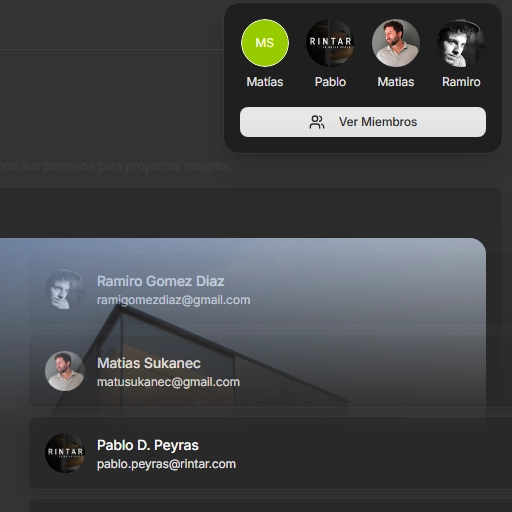
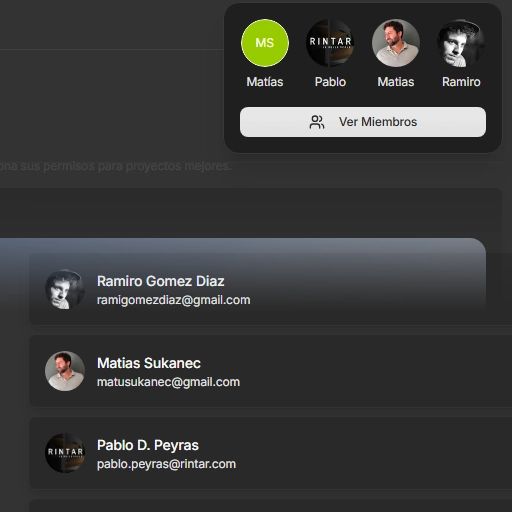
Add plan restrictions to project creation and member invitations
Introduces `PlanRestricted` component to limit project creation and member invitations based on the user's plan, and refactors `ActionBarMobile` to dynamically handle these restrictions.

Replit-Commit-Author: Agent
Replit-Commit-Session-Id: dabc522e-9cc7-4ef9-95ae-c665149c5888
Replit-Commit-Checkpoint-Type: intermediate_checkpoint
Replit-Commit-Event-Id: 8c731a6a-ecee-4056-89eb-dff5f11ccee3
Replit-Commit-Screenshot-Url: https://storage.googleapis.com/screenshot-production-us-central1/56b0c08a-c571-423d-82ae-1092bbb3423d/dabc522e-9cc7-4ef9-95ae-c665149c5888/y03Egdg

Changed region(s): [[0.0, 0.4375, 0.9688, 0.7812]]

diff --git a/src/layout/mobile/ActionBarMobile.tsx b/src/layout/mobile/ActionBarMobile.tsx
@@ -16,9 +16,6 @@ import { useMobile } from '@/hooks/use-mobile'
 import { Search, Filter, Home, Bell, Lock } from 'lucide-react'
 import { useLocation } from 'wouter'
 import { PlanRestricted } from '@/components/ui-custom/security/PlanRestricted'
-import { useCurrentUser } from '@/hooks/use-current-user'
-import { useProjectsCount } from '@/features/projects'
-
 export function ActionBarMobile() {
   const [, navigate] = useLocation()
   const { 
@@ -36,11 +33,6 @@ export function ActionBarMobile() {
   } = useActionBarMobile()
   const isMobile = useMobile()
   const searchInputRef = useRef<HTMLInputElement>(null)
-  
-  // Get projects count for plan restrictions (counts ALL projects, not just active)
-  const { data: userData } = useCurrentUser()
-  const organizationId = userData?.organization?.id
-  const { data: projectsCount = 0 } = useProjectsCount(organizationId || undefined)
   
   // Focus search input when popover opens - always run this hook
   useEffect(() => {
@@ -219,24 +211,35 @@ export function ActionBarMobile() {
 
           {/* Slot 3: Create (Central, only if exists) */}
           {actions.create && (
-            <PlanRestricted 
-              feature="max_projects" 
-              current={projectsCount}
-              functionName="Crear Proyecto"
-              useUpgradeModal={true}
-              modalImage="/features/ft-projects-512.webp"
-              modalTitle="Alcanzaste el límite de proyectos"
-              modalDescription="Has llegado al máximo de proyectos permitidos en tu plan actual. Actualiza a un plan superior para crear proyectos ilimitados y gestionar tu negocio sin restricciones."
-            >
+            actions.create.planRestriction ? (
+              <PlanRestricted 
+                feature={actions.create.planRestriction.feature} 
+                current={actions.create.planRestriction.current}
+                functionName={actions.create.label}
+                useUpgradeModal={true}
+                modalImage={actions.create.planRestriction.modalImage}
+                modalTitle={actions.create.planRestriction.modalTitle}
+                modalDescription={actions.create.planRestriction.modalDescription}
+              >
+                <button
+                  onClick={actions.create.onClick}
+                  className="flex items-center justify-center w-14 h-14 rounded-full shadow-lg text-white transition-colors"
+                  style={{ backgroundColor: 'var(--accent)' }}
+                  data-testid="button-create-mobile"
+                >
+                  {React.createElement(actions.create.icon, { className: "h-6 w-6" })}
+                </button>
+              </PlanRestricted>
+            ) : (
               <button
                 onClick={actions.create.onClick}
                 className="flex items-center justify-center w-14 h-14 rounded-full shadow-lg text-white transition-colors"
                 style={{ backgroundColor: 'var(--accent)' }}
-                data-testid="button-create-project-mobile"
+                data-testid="button-create-mobile"
               >
                 {React.createElement(actions.create.icon, { className: "h-6 w-6" })}
               </button>
-            </PlanRestricted>
+            )
           )}
 
           {/* Slot 4: Filter */}

diff --git a/src/pages/settings/Members.tsx b/src/pages/settings/Members.tsx
@@ -1,4 +1,4 @@
-import { useState } from "react";
+import { useState, useEffect } from "react";
 import { useQuery, useMutation } from "@tanstack/react-query";
 import { format } from "date-fns";
 import { es } from "date-fns/locale";
@@ -7,7 +7,10 @@ import {
   UserCheck, 
   Clock, 
   MoreHorizontal,
-  UserPlus
+  UserPlus,
+  Search,
+  Filter,
+  Bell
 } from "lucide-react";
 
 import { Layout } from "@/layout/desktop/Layout";
@@ -32,6 +35,7 @@ import { useGlobalModalStore } from "@/components/modal/form/useGlobalModalStore
 import { useMobile } from "@/hooks/use-mobile";
 import { PlanRestricted } from "@/components/ui-custom/security/PlanRestricted";
 import { useOrganizationMembers } from "@/features/organization";
+import { useActionBarMobile } from "@/layout/mobile/ActionBarMobileContext";
 
 function getInitials(name: string): string {
   return name
@@ -62,6 +66,7 @@ export default function Members() {
   const { openModal } = useGlobalModalStore();
 
   const isMobile = useMobile();
+  const { setActions, setShowActionBar, clearActions } = useActionBarMobile();
 
   const organizationId = userData?.organization?.id;
   const { data: organizationMembers = [] } = useOrganizationMembers(organizationId);
@@ -149,6 +154,53 @@ export default function Members() {
 
   // Mock guests data (empty for now)
   const guests: any[] = [];
+
+  // Configure mobile action bar
+  useEffect(() => {
+    if (isMobile) {
+      setActions({
+        search: {
+          id: 'search',
+          icon: Search,
+          label: 'Buscar',
+          onClick: () => {},
+        },
+        create: {
+          id: 'create',
+          icon: UserPlus,
+          label: 'Invitar Miembro',
+          onClick: () => openModal('member'),
+          variant: 'primary',
+          planRestriction: {
+            feature: 'max_members',
+            current: organizationMembers.length,
+            modalImage: '/features/ft-members-512.webp',
+            modalTitle: 'Alcanzaste el límite de miembros',
+            modalDescription: 'Has llegado al máximo de miembros permitidos en tu plan actual. Actualiza a un plan superior para invitar más miembros a tu equipo y gestionar colaboraciones sin restricciones.',
+          },
+        },
+        filter: {
+          id: 'filter',
+          icon: Filter,
+          label: 'Filtros',
+          onClick: () => {},
+        },
+        notifications: {
+          id: 'notifications',
+          icon: Bell,
+          label: 'Notificaciones',
+          onClick: () => {},
+        },
+      });
+      setShowActionBar(true);
+    }
+
+    return () => {
+      if (isMobile) {
+        clearActions();
+      }
+    };
+  }, [isMobile, openModal, organizationMembers.length, setActions, setShowActionBar, clearActions]);
 
   // Revoke invitation mutation
   const revokeInviteMutation = useMutation({

diff --git a/src/pages/projects/ProjectActivesTab.tsx b/src/pages/projects/ProjectActivesTab.tsx
@@ -1,6 +1,6 @@
 import { useState, useEffect, useMemo, useCallback } from 'react'
 import { useCurrentUser } from '@/hooks/use-current-user'
-import { useProjects, ProjectItemCard } from '@/features/projects'
+import { useProjects, useProjectsCount, ProjectItemCard } from '@/features/projects'
 import { useUserOrganizationPreferences } from '@/features/organization'
 import { Folder, Plus, Bell, Search, Filter } from 'lucide-react'
 import { useMutation, useQueryClient } from '@tanstack/react-query'
@@ -21,6 +21,7 @@ export default function ProjectActives() {
   const { data: userData } = useCurrentUser()
   const organizationId = userData?.organization?.id
   const { data: projects = [], isLoading: projectsLoading } = useProjects(organizationId || undefined)
+  const { data: projectsCount = 0 } = useProjectsCount(organizationId || undefined)
   const { toast } = useToast()
   const queryClient = useQueryClient()
   const { setSelectedProject } = useProjectContext()
@@ -265,7 +266,14 @@ export default function ProjectActives() {
         icon: Plus,
         label: 'Nuevo Proyecto',
         onClick: () => openModal('project', {}),
-        variant: 'primary'
+        variant: 'primary',
+        planRestriction: {
+          feature: 'max_projects',
+          current: projectsCount,
+          modalImage: '/features/ft-projects-512.webp',
+          modalTitle: 'Alcanzaste el límite de proyectos',
+          modalDescription: 'Has llegado al máximo de proyectos permitidos en tu plan actual. Actualiza a un plan superior para crear proyectos ilimitados y gestionar tu negocio sin restricciones.',
+        },
       },
       filter: {
         id: 'filter',
@@ -289,8 +297,7 @@ export default function ProjectActives() {
       setMobileSearchValue('');
       setSearchValue('');
     };
-    // eslint-disable-next-line react-hooks/exhaustive-deps
-  }, [isMobile]);
+  }, [isMobile, projectsCount, openModal, setActions, setShowActionBar, clearActions, setMobileSearchValue]);
 
   // Configure filters for Mobile Action Bar
   useEffect(() => {

diff --git a/src/pages/projects/ProjectListTab.tsx b/src/pages/projects/ProjectListTab.tsx
@@ -1,6 +1,6 @@
 import { useState, useEffect, useMemo, useCallback } from 'react'
 import { useCurrentUser } from '@/hooks/use-current-user'
-import { useProjects } from '@/features/projects'
+import { useProjects, useProjectsCount } from '@/features/projects'
 import { useUserOrganizationPreferences } from '@/features/organization'
 import { Folder, Edit, Trash2, Plus, CheckCircle2, Search, Filter, Bell } from 'lucide-react'
 import { supabase } from '@/lib/supabase'
@@ -26,6 +26,7 @@ export default function ProjectList() {
   const { data: userData } = useCurrentUser()
   const organizationId = userData?.organization?.id
   const { data: projects = [], isLoading: projectsLoading } = useProjects(organizationId || undefined)
+  const { data: projectsCount = 0 } = useProjectsCount(organizationId || undefined)
   const { toast } = useToast()
   const queryClient = useQueryClient()
   const { setSelectedProject } = useProjectContext()
@@ -140,7 +141,14 @@ export default function ProjectList() {
         icon: Plus,
         label: 'Nuevo Proyecto',
         onClick: () => openModal('project', {}),
-        variant: 'primary'
+        variant: 'primary',
+        planRestriction: {
+          feature: 'max_projects',
+          current: projectsCount,
+          modalImage: '/features/ft-projects-512.webp',
+          modalTitle: 'Alcanzaste el límite de proyectos',
+          modalDescription: 'Has llegado al máximo de proyectos permitidos en tu plan actual. Actualiza a un plan superior para crear proyectos ilimitados y gestionar tu negocio sin restricciones.',
+        },
       },
       filter: {
         id: 'filter',
@@ -164,8 +172,7 @@ export default function ProjectList() {
       setMobileSearchValue('');
       setSearchValue('');
     };
-    // eslint-disable-next-line react-hooks/exhaustive-deps
-  }, [isMobile]);
+  }, [isMobile, projectsCount, openModal, setActions, setShowActionBar, clearActions, setMobileSearchValue]);
 
   // Configure filters for Mobile Action Bar
   useEffect(() => {

diff --git a/src/layout/mobile/ActionBarMobileContext.tsx b/src/layout/mobile/ActionBarMobileContext.tsx
@@ -7,6 +7,14 @@ interface ActionBarAction {
   label: string
   onClick: () => void
   variant?: 'primary' | 'secondary'
+  // Plan restriction props (optional)
+  planRestriction?: {
+    feature: string
+    current: number
+    modalImage?: string
+    modalTitle?: string
+    modalDescription?: string
+  }
 }
 
 interface ActionBarActions {
